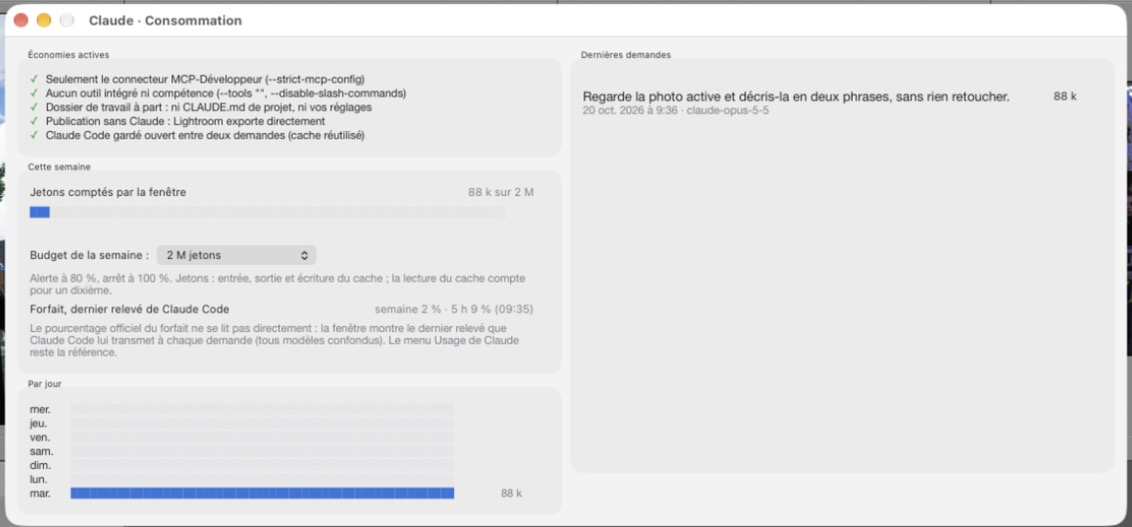
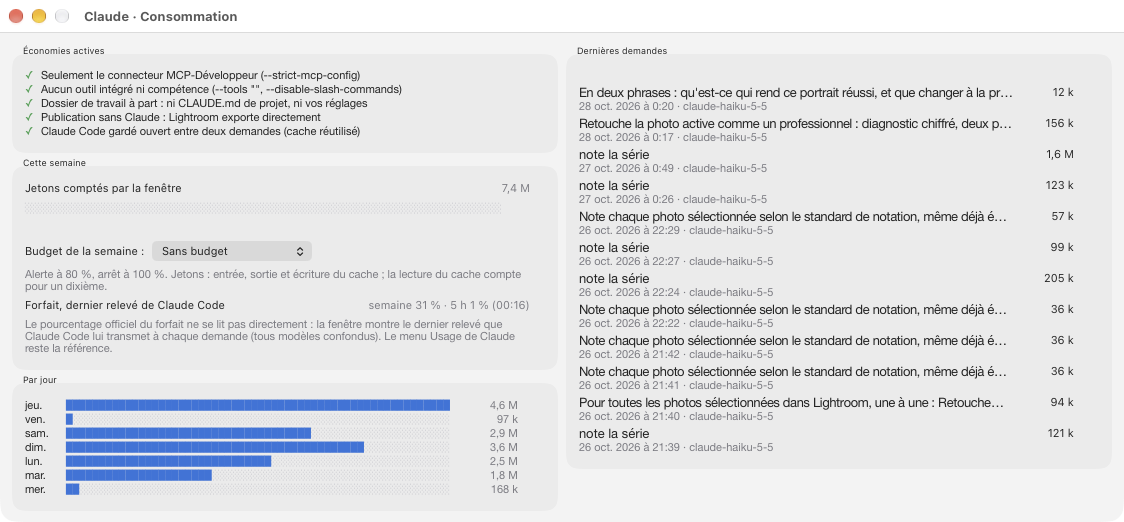
README : captures refaites avec la 1.4 ; deux défauts de la fenêtre corrigés
Captures prises dans Lightroom le 28 octobre 2026 : la fenêtre Claude après
une retouche pro et une Demande rapide sur une copie d'essai du portrait
DSCF2402, la fenêtre Suivi en graphiques (suivi-graphiques.png, à la place de
carnet.png), la Demande rapide (nouvelle), Publication, Consommation et la
fenêtre de la liaison. Le README montre aussi la Demande rapide et le Suivi.

Corrigé en chemin :
- Releve.poserSelection appelait table.maxn, absent du Lua de Lightroom : un
  clic sur une barre de la fenêtre Suivi échouait (journal du 26 octobre). Les
  deux simulations retirent table.maxn, comme Lightroom.
- Un titre d'attente écrit par Claude avant de voir la photo (« à définir après
  aperçu ») devenait le titre de la conversation : refusé, comme tout titre qui
  porte < ou >.

diff --git a/CLAUDE.md b/CLAUDE.md
@@ -1086,16 +1086,12 @@ Le README pointe vers `https://github.com/mdany75/Developpeur/releases/latest/do
   rapide ; ne jamais publier une archive non notarisée, ni construite avec `--sans-tests`.
 - Avant de pousser une fonctionnalité : README et `CHANGELOG.md` à jour, capture d'écran refaite
   dans Lightroom si l'interface a changé (`docs/capture.png` : la fenêtre Claude, sa seule
-  disposition, la fenêtre B de la 1.3.2 après une retouche pro : ses étapes, « Pourquoi ? »,
-  « ＋ Garder la demande », le menu Mes demandes et l'onglet Focus, refaite le 22 octobre 2026 ;
-  à refaire au correctif 1.3.7, la 1.3.6 n'ayant pas été publiée seule : elle montrera la fenêtre
-  de 1 623 × 1 200, sans volet ni Mode, ses onglets Focus, Note, Aperçu et Proposition, les boutons
-  Suivi, Publication… et Consommation… et le résumé en haut du fil, sans « Pourquoi ? » ni
-  « ＋ Garder la demande » ;
-  `docs/carnet.png`, la page Carnet de progrès, à refaire au correctif 1.3.7 : elle montrera
-  la fenêtre Suivi en graphiques ; `publication.png`, `consommation.png`,
-  `suivi.png` : les autres fenêtres ; `seance.png` est retirée avec la Séance en 1.1.1,
-  `atelier.png` et `panneau.png` avec l'Atelier et le Panneau en 1.2), et une nouvelle version si ce
+  disposition, après une retouche pro et une Demande rapide sur une copie d'essai du portrait
+  DSCF2402, onglet Focus ; `suivi-graphiques.png` : la fenêtre Suivi ; `demande-rapide.png`,
+  `publication.png`, `consommation.png`, `suivi.png` (fenêtre de la liaison) : les autres
+  fenêtres ; toutes refaites le 28 octobre 2026 avec le module 1.4, par `screencapture -o -l <id>`
+  de la fenêtre ; `carnet.png` est retirée le même jour (la page Carnet de progrès n'existe plus),
+  `seance.png` avec la Séance en 1.1.1, `atelier.png` et `panneau.png` avec l'Atelier et le Panneau en 1.2), et une nouvelle version si ce
   qu'on installe a changé.
 - Pousser sur `main` directement.
 
@@ -1111,4 +1107,4 @@ Le README pointe vers `https://github.com/mdany75/Developpeur/releases/latest/do
 - `.github/workflows/tests.yml` : syntaxe des scripts et les deux suites à chaque envoi sur `main` (macOS)
 - `build.sh` (tests, compilation, signature, archive notarisée), `install.sh`, `uninstall.sh`
 - `Resources/Info.plist` : identifiant `com.danymenard.mcp-developpeur` et version (incrusté par `-sectcreate` dans `Package.swift`)
-- `docs/SPEC.md` : cahier des charges, protocole entre le serveur et le module, les chantiers de la 1.3 et ce qui en reste à constater, et la fenêtre Claude (architecture, contraintes du SDK, fenêtre B et ses constats, fichiers) ; `docs/aide-adobe-developpement.md` : notes sur l'aide d'Adobe (outils de développement, ordre d'utilisation, écarts avec la méthode du connecteur, ce qui reste à faire à la main), à relire avant de changer les consignes (`ServerInfo`, `Consignes.lua`) ou les invites (`Prompts`) ; captures : `capture.png` (la fenêtre Claude, fenêtre B de la 1.3.2 avec l'onglet Focus, capture principale du README ; à refaire au correctif 1.3.7 : la fenêtre de 1 623 × 1 200), `carnet.png` (la page Carnet de progrès ; à refaire au correctif 1.3.7 : la fenêtre Suivi en graphiques), `publication.png`, `consommation.png`, `suivi.png` (fenêtre de la liaison) ; `docs/lavish/` : les sources des pages Lavish publiées en artefacts (Analyse du Développeur, `analyse-1-5.html`), une par page, à garder identiques à leur artefact
+- `docs/SPEC.md` : cahier des charges, protocole entre le serveur et le module, les chantiers de la 1.3 et ce qui en reste à constater, et la fenêtre Claude (architecture, contraintes du SDK, fenêtre B et ses constats, fichiers) ; `docs/aide-adobe-developpement.md` : notes sur l'aide d'Adobe (outils de développement, ordre d'utilisation, écarts avec la méthode du connecteur, ce qui reste à faire à la main), à relire avant de changer les consignes (`ServerInfo`, `Consignes.lua`) ou les invites (`Prompts`) ; captures, refaites le 28 octobre 2026 : `capture.png` (la fenêtre Claude, capture principale du README), `suivi-graphiques.png` (la fenêtre Suivi), `demande-rapide.png`, `publication.png`, `consommation.png`, `suivi.png` (fenêtre de la liaison) ; `docs/lavish/` : les sources des pages Lavish publiées en artefacts (Analyse du Développeur, `analyse-1-5.html`), une par page, à garder identiques à leur artefact

diff --git a/README.md b/README.md
@@ -243,6 +243,8 @@ connecteur MCP-Développeur, un serveur MCP (*Model Context Protocol*) écrit en
 Une petite fenêtre à part pour une question vite faite : Fichier › Module externe - Extras ›
 Demande rapide (même entrée dans le menu Bibliothèque), ou ⌘⌃⌥C une fois le raccourci posé.
 
+![La Demande rapide](docs/demande-rapide.png)
+
 - En bas, la demande sur trois lignes ; Retour l'envoie, comme Envoyer à sa droite.
 - Sur une seule photo (correctif 1.3.6), la demande part dans la conversation de cette photo, la
   même que dans la fenêtre Claude, et Claude y reprend sa session ; une photo sans conversation en
@@ -278,6 +280,8 @@ Demande rapide (même entrée dans le menu Bibliothèque), ou ⌘⌃⌥C une foi
 Une fenêtre à part, « Claude · Suivi », qu'ouvre le bouton Suivi en haut à droite de la fenêtre
 Claude : vos prises de vue et votre carnet de progrès en graphiques, sans Claude ni forfait
 (correctif 1.3.7, décidé avec vous le 25 octobre 2026).
+
+![La fenêtre Suivi](docs/suivi-graphiques.png)
 
 **Les photos qui comptent**
 

diff --git a/CHANGELOG.md b/CHANGELOG.md
@@ -1,5 +1,17 @@
 # Changements
 
+## Non publié
+
+### Corrigé
+- Fenêtre Suivi : un clic sur une barre montre de nouveau ses photos dans la Bibliothèque (il
+  échouait, le Lua de Lightroom n'ayant pas une fonction que le module employait).
+- Fenêtre Claude : une conversation ne prend plus pour titre un texte d'attente que Claude écrivait
+  avant d'avoir vu la photo (« à définir après aperçu ») ; il donne son vrai titre à la vue suivante.
+
+### Documentation
+- Les captures du README sont refaites avec la 1.4 : la fenêtre Claude, la fenêtre Suivi en
+  graphiques, la Demande rapide, Publication, Consommation et la fenêtre de la liaison.
+
 ## 1.4 — 2026-10-27
 
 La 1.4, une sortie entière, du tri à l'harmonisation : un voyage ou une fête de famille, c'est des
